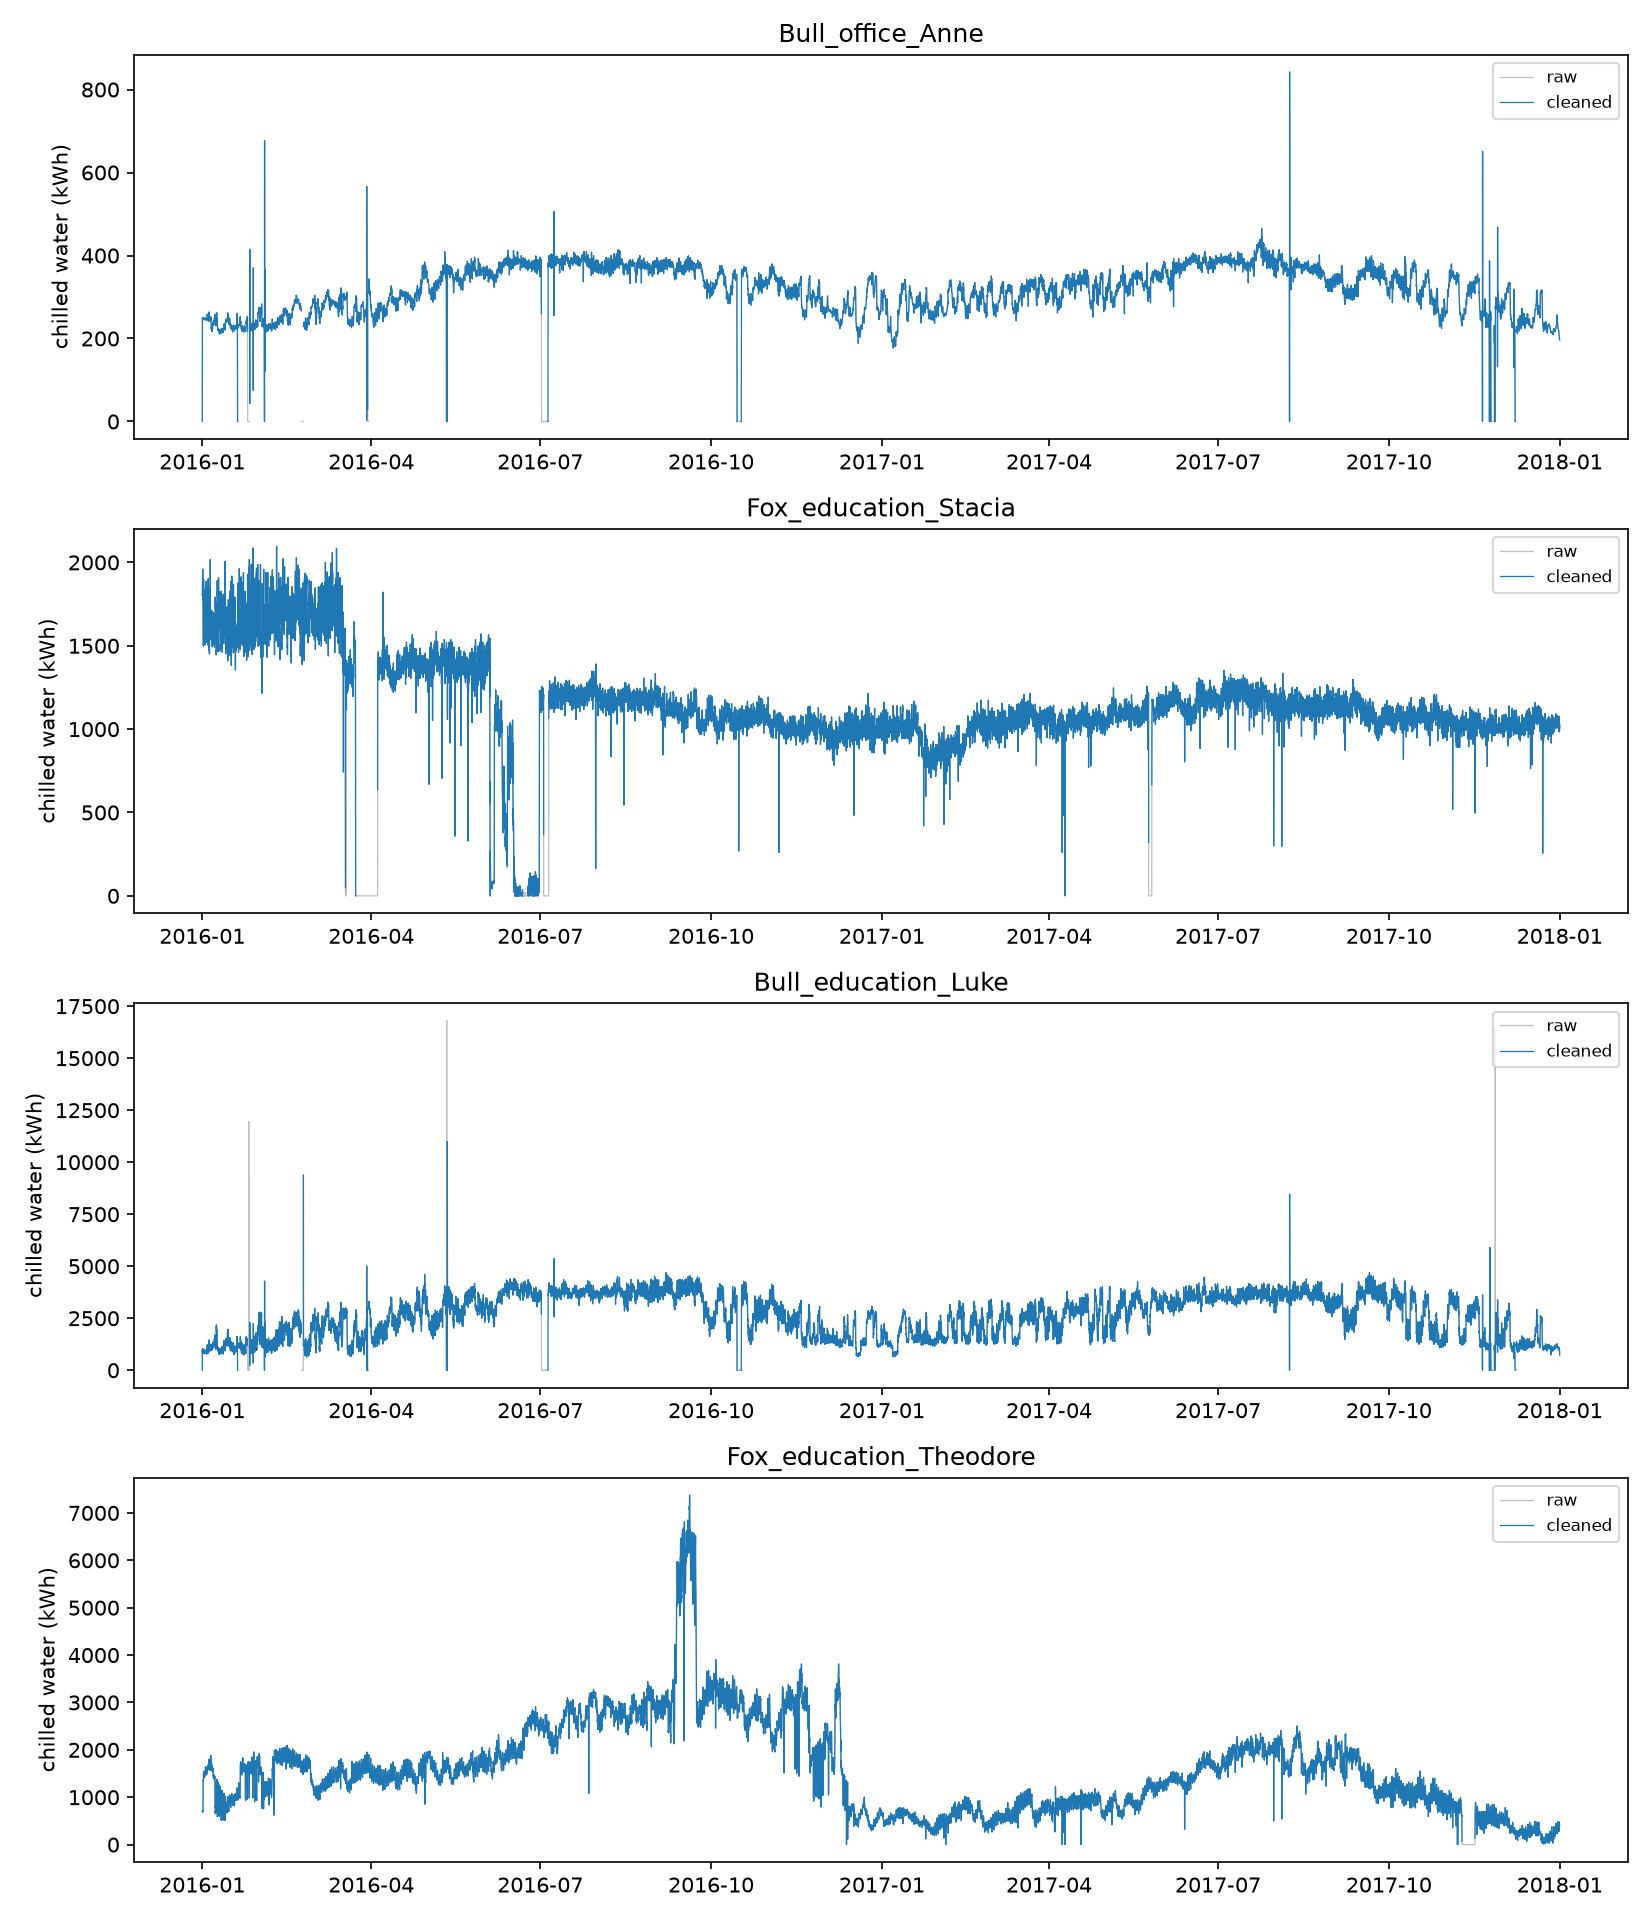
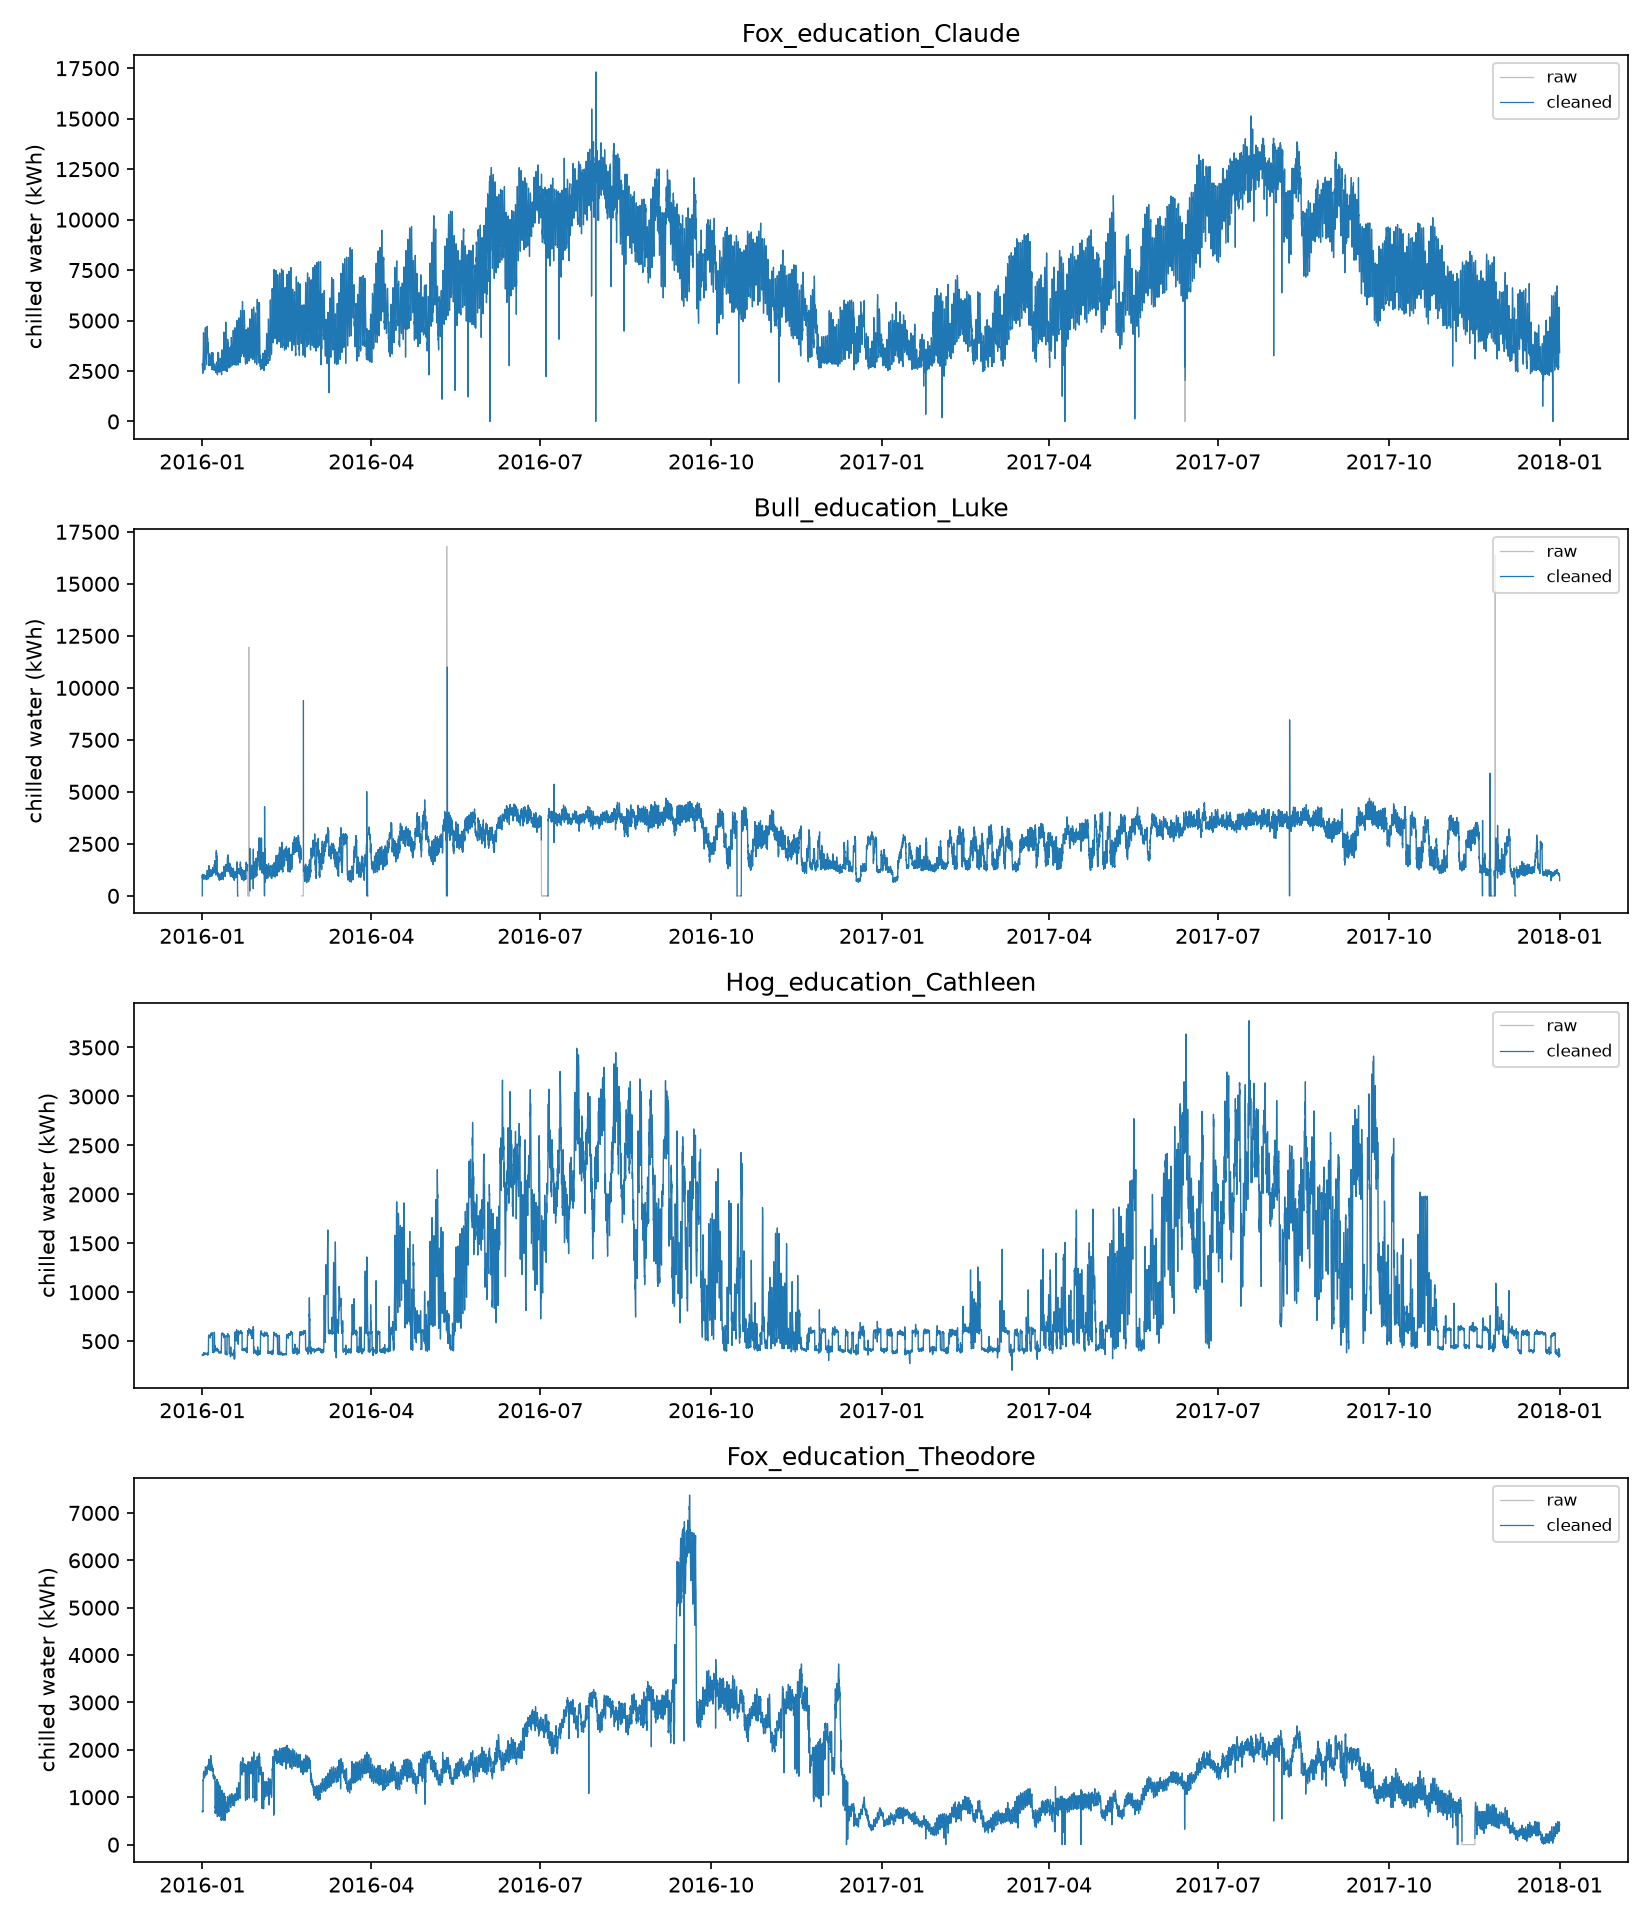
Fixed: regenerated data quality report for the calibrated portfolio

diff --git a/README.md b/README.md
@@ -58,14 +58,10 @@ counterfactuals and conformal prediction intervals.
 
 Real BDG2 meters carry stuck sensors, dropouts, spikes, and level shifts.
 Every building runs through nine automated cleaning rules before anything
-touches the model, and every removal is logged, not silently dropped:
-
-![Data cleaning before/after](reports/figures/quality_before_after.png)
-
-**Finding:** total data removed stays under 1.5% on the two buildings the
-model is ultimately calibrated against (5.4% on a third, rejected
-candidate). The cleaning pipeline is conservative by design: it flags
-faults rather than aggressively interpolating over them.
+touches the model — flagging faults rather than aggressively interpolating
+over them — and every removal is logged. Total data removed stays under
+1.3% on all four buildings used in this project. Full breakdown:
+`reports/01_data_quality.md`.
 
 ---
 
@@ -74,32 +70,39 @@ faults rather than aggressively interpolating over them.
 ### Physics alone misses by an order of magnitude
 
 An uncalibrated model (physically reasonable parameters, never fit to a
-meter) is the honest starting point every "digital twin" claim has to be
-measured against:
-
-![Uncalibrated model vs measured load](reports/figures/l6_1_uncalibrated_gap.png)
-
-**Finding:** the correlation between predicted and measured load is already
-0.5 with zero fitting. The physics gets the *shape* of the year right
-(hot months load more), but the *size* is off by ~90%. Calibration is
-solving a scale problem, not a shape problem, and that distinction is what
-makes a 5-parameter model tractable at all.
+meter) is off by 91% and correlates with the real load at only r = 0.49 —
+the honest floor every "digital twin" claim has to be measured against.
+Shown on `Fox_education_Theodore`, a building screened out *before*
+calibration ever touched it (`reports/00_building_selection.md`), so this
+is a real uncalibrated result, not a hypothetical snapshot of a building
+the project goes on to fit. Calibration is solving a scale problem, not a
+shape problem — the same physics structure is what
+`Fox_education_Claude`, `Bull_education_Luke`, and `Hog_education_Cathleen`
+are calibrated from below.
 
 ### After calibration, two of three buildings pass the industry gate
 
 | Building | Train-year CV(RMSE) | **Test-year CV(RMSE)** | G14 (±10% NMBE / 30% CV) |
 |---|---|---|---|
-| `Fox_education_Claude` (primary) | 11.72% | **11.58%** | ✅ **PASS** |
-| `Bull_education_Luke` | 14.13% | **11.14%** | ✅ **PASS** |
-| `Hog_education_Cathleen` | 28.66% | **31.65%** | ❌ FAIL |
+| `Fox_education_Claude` (primary) | 11.72% | **11.58%** | **PASS** |
+| `Bull_education_Luke` | 14.13% | **11.14%** | **PASS** |
+| `Hog_education_Cathleen` | 28.66% | **31.65%** | FAIL |
 
 **Finding:** both passing buildings score *better* on the year they'd never
 seen than on the year they were fit to (11.72→11.58%, 14.13→11.14%). That
-is the signature of a model that learned the building, not the year:
+is the signature of a model that learned the building, not the year. Below
+is that check for `Fox_education_Claude`: four expanding-window folds, each
+validated on hours the fold never trained on (mean train/validate gap
++0.33 pp), alongside the five calibrated parameters holding stable across
+folds rather than drifting to fit each block separately:
 
-![Cross-validated fold residuals](reports/figures/l6_9_crossval.png)
+![Cross-validated fold residuals — Fox_education_Claude](reports/figures/l6_9_crossval.png)
 
-Cathleen's failure is not overfitting: it's structural. Below −15°C the
+(`Bull_education_Luke` shows the same pattern; no separate figure is
+included for it here.)
+
+Cathleen's failure is a different, structural one — no cross-validation
+figure is shown for her, since the problem isn't fold instability. Below −15°C the
 model's inverse solve predicts exactly zero (a physical floor: cooling load
 can't go negative) against a measured, steady 444 kW base load the RC
 network has no term for. A 3-parameter change-point curve with *no
@@ -109,16 +112,17 @@ specific to one building's load shape, not a flaw in the method.
 
 ### The calibration isn't a lucky single fit
 
-Forty restarts from different starting points, and 40 more from a tight
-cluster around the best-known fit, both converge to a family of parameter
-sets that all score the meter about equally well:
-
-![Parameter equifinality across restarts](reports/figures/l6_8_equifinality.png)
-
-**Finding:** several equally-accurate parameter sets exist for the same
-building. That is a fault line: every "the calibrated value is X" claim
-has to carry an uncertainty range. That range is what feeds the
-equifinality-interval band used later in the counterfactual scenarios.
+Two independent 41-restart studies confirm the reported fit isn't a
+fluke. Restarts drawn from the full width of every parameter's bounds
+almost never land on an equally good answer — 38 of 41 end up in a
+different basin entirely, proof no distant rival fit exists. Restarts
+drawn from a tight neighborhood around the best-known fit find a real,
+local family instead: 7 of 41 within 5% of the best objective, with
+`t_setpoint_c` the one parameter the data can't pin down at all (51.6% of
+its own bound width is behaviourally indistinguishable). Every "the
+calibrated value is X" claim has to carry that range, which is what feeds
+the equifinality-interval band used later in the counterfactual scenarios.
+Full breakdown: `reports/02_calibration.md`.
 
 ---
 
@@ -140,51 +144,28 @@ than accepting the gap as noise.
 ### A learned correction recovers 1–3% more variance, out-of-fold
 
 A gradient-boosted model fitted to the physics residual, scored strictly
-on data it never trained on:
+out-of-fold, recovers a further **+3.3%** of Claude's variance (90.6% →
+93.9%; CV(RMSE) 11.29%→9.09%, a real seasonal effect concentrated in
+summer) and **+1.1%** of Luke's (86.7% → 87.8%) — reported as measured,
+not rounded up to one "the hybrid works" headline: 3 of Luke's 5
+cross-validation folds are actually *harmed* by the correction, so a 1%
+gain on 3-of-5-harmed folds is a materially weaker claim than Claude's 3%
+gain that helps every fold.
 
-![Physics + learned-residual decomposition](reports/figures/l7_3_hybrid_decomposition.png)
+### Also checked
 
-| Building | Physics variance explained | + learned correction | Unexplained |
-|---|---|---|---|
-| Claude | 90.6% | **+3.3%** | 6.1% |
-| Luke | 86.7% | +1.1% (qualified — see below) | 12.2% |
+- **Agreement isn't proof:** exact Shapley attribution and held-out
+  permutation importance rank features identically (Spearman ρ = 1.00),
+  but a shuffled-target control still produces 15–20% of the real
+  attribution's magnitude — two methods agreeing doesn't by itself mean
+  an attribution is real.
+- **One threshold, three climates:** the same calibrated humidity-response
+  term fires 16.8% of the year on the driest building and 66.0% on the
+  most humid — identical code, radically different behavior once climate
+  decides how often it triggers.
 
-**Finding:** Claude's correction is a real, seasonal effect: CV(RMSE)
-11.29%→9.09%, concentrated almost entirely in the summer fold, flattening
-a hockey-stick error above ~16°C outdoor temperature. Luke's gain is
-smaller, and 3 of its 5 cross-validation folds are actually *harmed* by the
-correction. Both are reported as measured, not rounded up to one "the
-hybrid works" headline. A 1% out-of-fold gain on 3-of-5-harmed folds is a
-materially weaker claim than a 3% gain that helps every fold, even though
-both are technically "positive."
-
-### The two importance methods that agree can still be misleading
-
-Exact Shapley attribution and held-out permutation importance rank
-features identically on one building (Spearman ρ = 1.00). But a shuffled
-control, with the *same* learner and features, still produces 15–20% of
-the real attribution's magnitude, with a confident top feature that means
-nothing:
-
-![Explanation-method comparison](reports/figures/l7_4_explanation_comparison.png)
-
-**Finding:** two methods agreeing is not, by itself, evidence an
-attribution is real. You need a shuffled-target control to know how much
-of an explanation is the method finding structure that isn't there.
-
-### One assumption, three different climates
-
-The same calibrated humidity-response term is active 16.8% of the year on
-the driest building and 66.0% of the year on the most humid: identical
-code, identical threshold, radically different behavior once climate
-decides how often it fires.
-
-![Humid vs. dry site comparison](reports/figures/l7_5_humid_vs_dry.png)
-
-**Finding:** a single fixed threshold silently becomes a different model
-depending on the site it's deployed to. That kind of assumption looks
-harmless in code review and only shows up once you plot two climates side
-by side.
+Full breakdown of both: `reports/07_explainability.md`,
+`reports/03_residual_analysis.md`.
 
 ---
 
@@ -211,34 +192,18 @@ instead of running a regression on the raw meter data. A regression
 cannot separate "humidity causes load" from "humidity and load both rise
 with temperature," and the gap here is 6×, not a rounding error.
 
-### Setpoint, chiller, and humidity-trigger scenarios
+### What-if scenarios, honestly bounded
 
-Every scenario the twin is asked gets three independent uncertainty
-estimates (conformal, block-bootstrap, and parameter-equifinality), and
-the widest of the three is reported, not the smallest:
-
-![Scenario sweep](reports/figures/l8_2_scenarios.png)
-
-**Finding:** the equifinality band (built from the parameter sets shown
-above) is consistently the widest of the three, and on one scenario it
-reaches 4× the point estimate and contains zero. That means "this change
-saves energy" is not a claim that scenario can support, even though the
-point estimate alone would suggest it.
-
-### The chiller and the pump can be made to disagree
-
-Sweeping chilled-water supply temperature against a fixed condenser return
-shows the chiller's efficiency and the pump's flow penalty moving in
-opposite directions, with the plant-level break-even landing on the
-documented 8–12% pump-share band the design literature predicts:
-
-![Chiller vs. pump trade-off](reports/figures/l8_2_chiller_pump_tradeoff.png)
-
-**Finding:** whether raising CHW supply temperature saves energy overall
-depends entirely on which side of the break-even the pump's share of
-plant load sits. A single-lever "raise the setpoint" recommendation is
-wrong without this trade-off, and the break-even moves 8–12% depending on
-which of the three example buildings it's computed on.
+Every setpoint, chiller, and humidity-trigger scenario the twin is asked
+gets three independent uncertainty estimates (conformal, block-bootstrap,
+parameter-equifinality), and the widest is always the one reported — on
+one scenario the equifinality band alone reaches 4× the point estimate and
+contains zero, meaning "this saves energy" isn't a claim that scenario can
+support. Raising chilled-water supply temperature can cut either way too:
+the chiller's efficiency gain and the pump's flow penalty move in
+opposite directions, and which one wins depends on the pump's share of
+plant load, with a break-even that shifts 8–12% across the three example
+buildings. Full breakdown: `reports/08_counterfactual.md`.
 
 ### The prediction intervals actually cover what they claim to
 
@@ -317,7 +282,7 @@ Read the reports in order for the full narrative: `00_building_selection` →
 ## Setup
 
 ```bash
-git clone <this repo> && cd data-center-cooling-digital-twin
+git clone <https://github.com/htet-khaing-win/ASHRAE-cal-digital-cooling-twin.git> && cd data-center-cooling-digital-twin
 conda env create -f environment.yml
 conda activate cooling-twin
 

diff --git a/reports/01_data_quality.md b/reports/01_data_quality.md
@@ -2,25 +2,14 @@
 
 > Generated by `scripts/generate_quality_report.py`. Do not hand-edit.
 
-## Bull_office_Anne
-Total points: 17529 | Removed by cleaning: 1.24%
+## Fox_education_Claude
+Total points: 17543 | Removed by cleaning: 0.02%
 
 | Rule | Points Affected | % of Total |
 | --- | --- | --- |
 | C1_C2_C7_physical_bounds | 0 | 0.0 |
-| C3_C4_flatlines | 14 | 0.08 |
-| C5_C6_gaps | 275 | 1.57 |
-| C8_change_points | 10 | 0.06 |
-| C9_sparse_months | 0 | 0.0 |
-
-## Fox_education_Stacia
-Total points: 17543 | Removed by cleaning: 2.79%
-
-| Rule | Points Affected | % of Total |
-| --- | --- | --- |
-| C1_C2_C7_physical_bounds | 0 | 0.0 |
-| C3_C4_flatlines | 11 | 0.06 |
-| C5_C6_gaps | 493 | 2.81 |
+| C3_C4_flatlines | 1 | 0.01 |
+| C5_C6_gaps | 22 | 0.13 |
 | C8_change_points | 9 | 0.05 |
 | C9_sparse_months | 0 | 0.0 |
 
@@ -33,6 +22,17 @@ Total points: 17529 | Removed by cleaning: 1.27%
 | C3_C4_flatlines | 14 | 0.08 |
 | C5_C6_gaps | 273 | 1.56 |
 | C8_change_points | 9 | 0.05 |
+| C9_sparse_months | 0 | 0.0 |
+
+## Hog_education_Cathleen
+Total points: 17542 | Removed by cleaning: 0.00%
+
+| Rule | Points Affected | % of Total |
+| --- | --- | --- |
+| C1_C2_C7_physical_bounds | 0 | 0.0 |
+| C3_C4_flatlines | 0 | 0.0 |
+| C5_C6_gaps | 0 | 0.0 |
+| C8_change_points | 10 | 0.06 |
 | C9_sparse_months | 0 | 0.0 |
 
 ## Fox_education_Theodore
